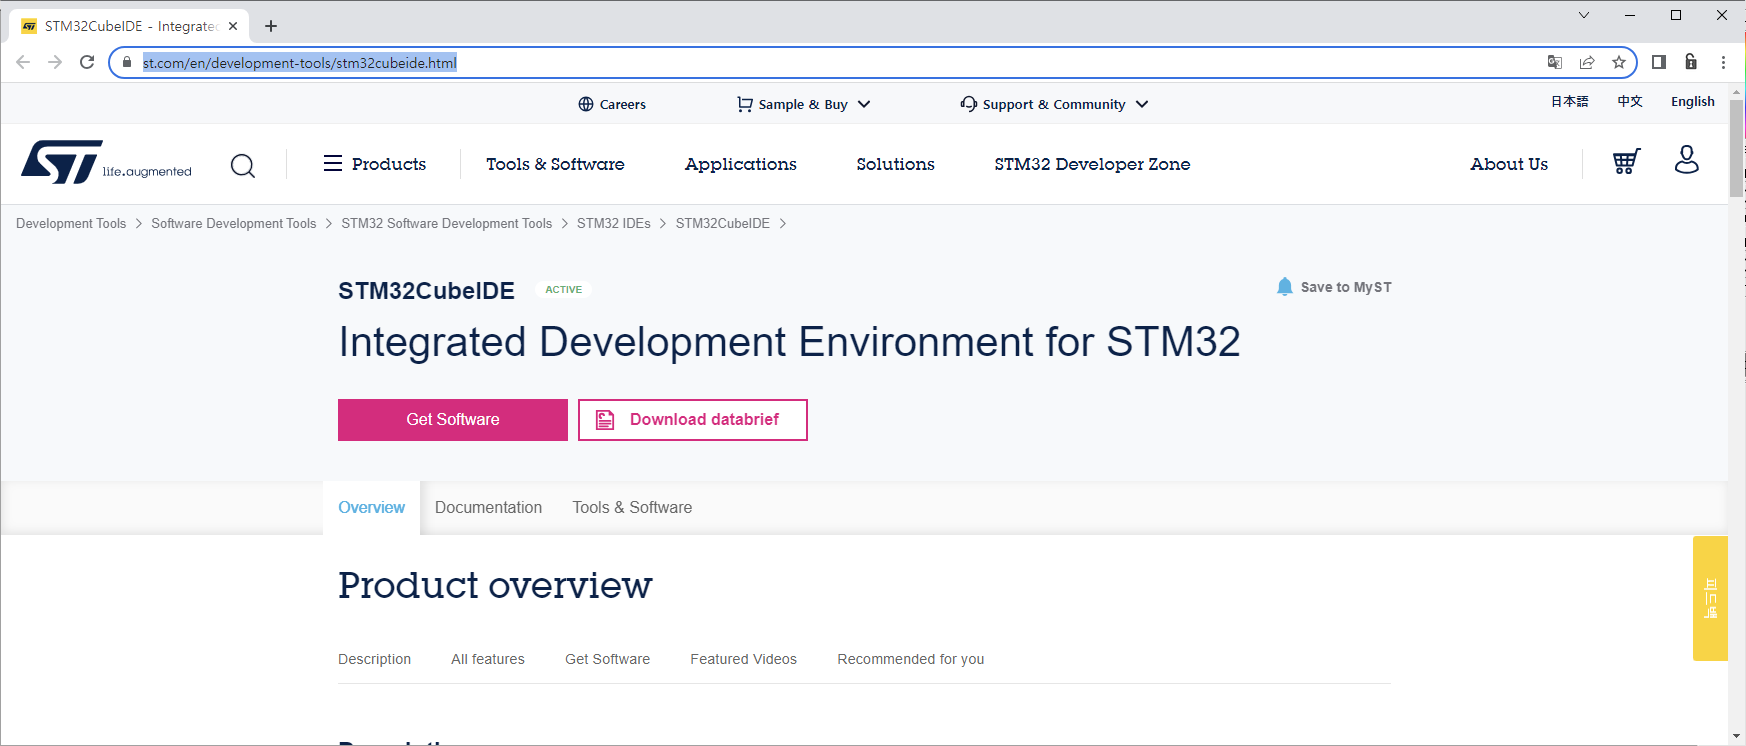
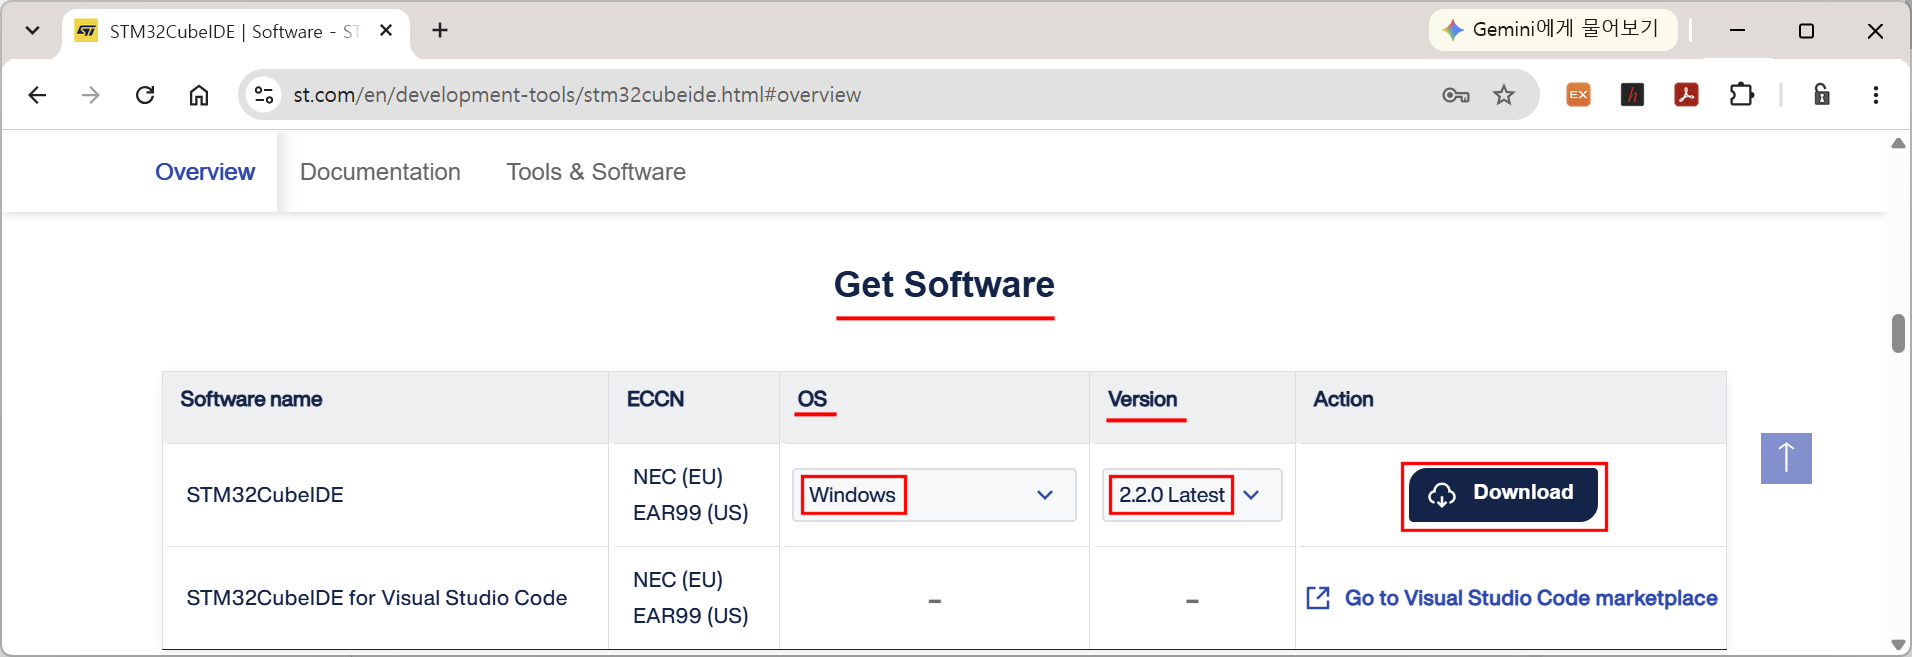
Please enter the commit message for your changes. Lines starting   with ' ' will be ignored, and an empty message aborts the commit.
On branch master
  Changes to be committed:
 	modified:   ex01LED_Blink/ex01_LED_BLINK.md
 	modified:   ex02_LED_Toggle/ex02_LED_Toggle.md
 	modified:   ex08_HC-SR04/ex08_hc_sr04.md
 	modified:   ex0_STM32CubeIDE/ex0_STM32CubeIDE.md
 	modified:   ex0_STM32CubeIDE/img/install_stm32cubeide1.png
 	new file:   ex0_STM32CubeIDE/img/install_stm32cubeide10.png
 	new file:   ex0_STM32CubeIDE/img/install_stm32cubeide11.png
 	new file:   ex0_STM32CubeIDE/img/install_stm32cubeide12.png
 	new file:   ex0_STM32CubeIDE/img/install_stm32cubeide13.png
 	new file:   ex0_STM32CubeIDE/img/install_stm32cubeide14.png
 	modified:   ex0_STM32CubeIDE/img/install_stm32cubeide2.png
 	new file:   ex0_STM32CubeIDE/img/install_stm32cubeide6.png
 	new file:   ex0_STM32CubeIDE/img/install_stm32cubeide7.png
 	new file:   ex0_STM32CubeIDE/img/install_stm32cubeide8.png
 	new file:   ex0_STM32CubeIDE/img/install_stm32cubeide9.png
 	new file:   ex0_STM32CubeIDE/img/test.png
 	new file:   ex0_STM32CubeIDE/img/test5.png
 	new file:   ex0_STM32CubeIDE/test.png

diff --git a/ex02_LED_Toggle/ex02_LED_Toggle.md b/ex02_LED_Toggle/ex02_LED_Toggle.md
@@ -2,6 +2,36 @@
 
 GPIO 입력에 의한 LED ON/OFF 토글 구현
 
+**사용한 HAL API**
+
+1. HAL_GPIO_WritePin(GPIOx, GPIO_Pin, PinState)
+
+GPIO출력 함수 GPIO**PA5**로 HIGH를 출력할 경우 다음과 같이 사용한다.
+
+```c
+HAL_GPIO_WritePin(GPIOA, GPIO_PIN_5, SET); // or
+HAL_GPIO_WritePin(GPIOA, GPIO_PIN_5, 1);
+```
+
+GPIO출력 함수 GPIO**PA5**로 LOW를 출력할 경우 다음과 같이 사용한다.
+
+```c
+HAL_GPIO_WritePin(GPIOA, GPIO_PIN_5, RESET); // or
+HAL_GPIO_WritePin(GPIOA, GPIO_PIN_5, 0);
+```
+
+
+
+2. HAL_GPIO_ReadPin(GPIOx, GPIO_Pin)
+
+GPIO입력 함수 GPIO**PC13**으로  부터의 입력을 변수 ***temp***에 치환할 경우 다음과 같이 사용한다.
+
+```c
+uint8_t temp = HAL_GPIO_ReadPin(GPIOC, GPIO_PIN_13);
+```
+
+
+
 #### 개발환경
 
 **OS** MS-Windows 10(64bit)

diff --git a/ex01LED_Blink/ex01_LED_BLINK.md b/ex01LED_Blink/ex01_LED_BLINK.md
@@ -2,6 +2,36 @@
 
 GPIO 출력 기능을 이용한 LED 제어 
 
+**사용한 HAL API**
+
+1. HAL_GPIO_WritePin(GPIOx, GPIO_Pin, PinState)
+
+GPIO출력 함수 GPIO**PA5**로 HIGH를 출력할 경우 다음과 같이 사용한다.
+
+```c
+HAL_GPIO_WritePin(GPIOA, GPIO_PIN_5, SET); // or
+HAL_GPIO_WritePin(GPIOA, GPIO_PIN_5, 1);
+```
+
+GPIO출력 함수 GPIO**PA5**로 LOW를 출력할 경우 다음과 같이 사용한다.
+
+```c
+HAL_GPIO_WritePin(GPIOA, GPIO_PIN_5, RESET); // or
+HAL_GPIO_WritePin(GPIOA, GPIO_PIN_5, 0);
+```
+
+
+
+2. HAL_Delay(Delay)
+
+***ms***단위의 시간 지연 함수1초 딜레이가 필요한 경우 다음과 같이 사용한다.
+
+```c
+HAL_Delay(1000);
+```
+
+
+
 #### 개발환경
 
 **OS** MS-Windows 10(64bit)
